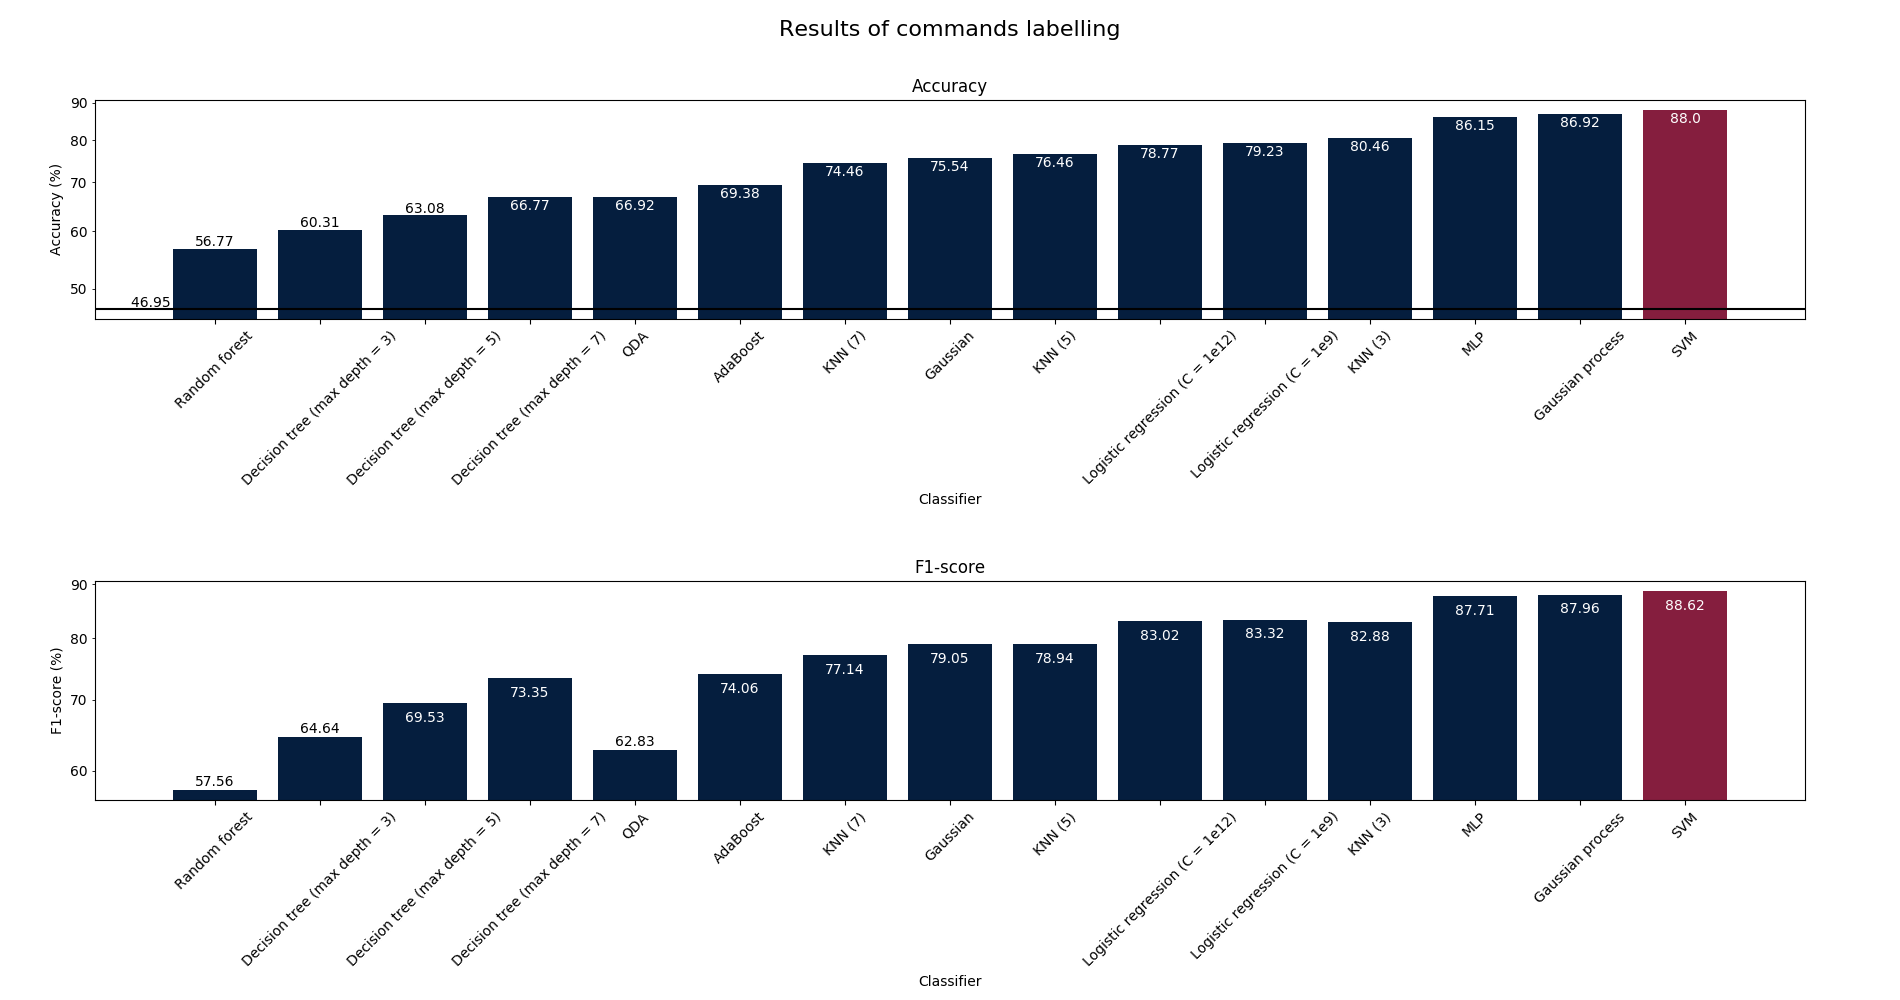
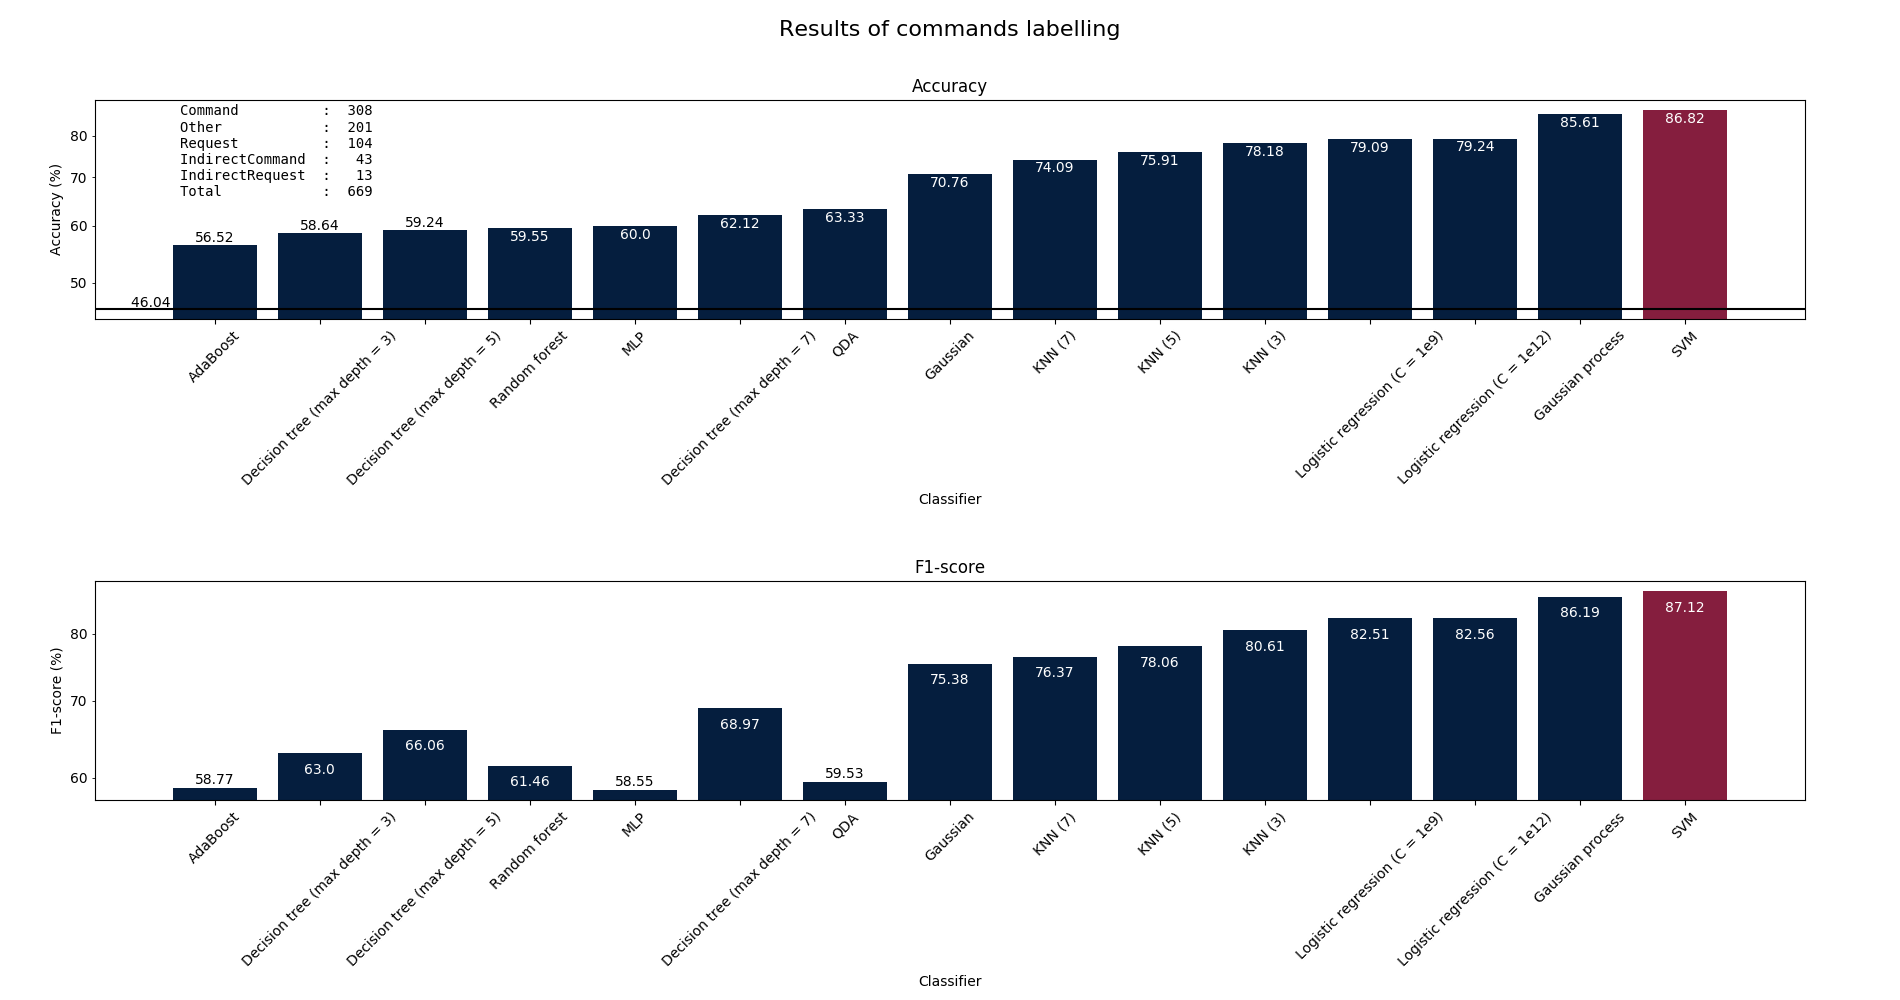
Updated cv plot, added Indirect Requests

diff --git a/scripts/w2v/test.py b/scripts/w2v/test.py
@@ -68,7 +68,6 @@ else:
 #
 # classify using logistic regression classifier
 #
-
 def split(df, pieces=2):
 	number_of_lines = df.shape[0]
 	chunk_size = number_of_lines // pieces
@@ -173,6 +172,9 @@ if not args.tf:
 	fig.set_figheight(10)
 	fig.suptitle("Results of commands labelling" if args.title is None else args.title, fontsize=16)
 
+	type_counts = dict(df.type.value_counts())
+	type_counts['Total'] = int(np.sum(list(type_counts.values())))
+	axs[0].text(0.05, 0.98, '\n'.join([f"{type:17s}: {type_counts[type]:4d}" for type in type_counts.keys()]) + '\n'*5, horizontalalignment='left', verticalalignment='top', transform=axs[0].transAxes, family='monospace')
 	axs[0].bar(rdf.classifier, height=rdf.accuracy, color=[COMMON_COLOR if i < max_accuracy else BRIGHT_COLOR for i in accuracy], log = True)
 	axs[0].set_title('Accuracy')
 	axs[0].set_xlabel('Classifier')
@@ -324,6 +326,7 @@ else:
 		#print(f"Average f1-score: {np.average([item['f1-score'] for item in results])}")
 
 	#dfs = labellize_using_dummy(df, "type")
+	
 	classify_svm(df)
 
 	#classify_svm(df,)
